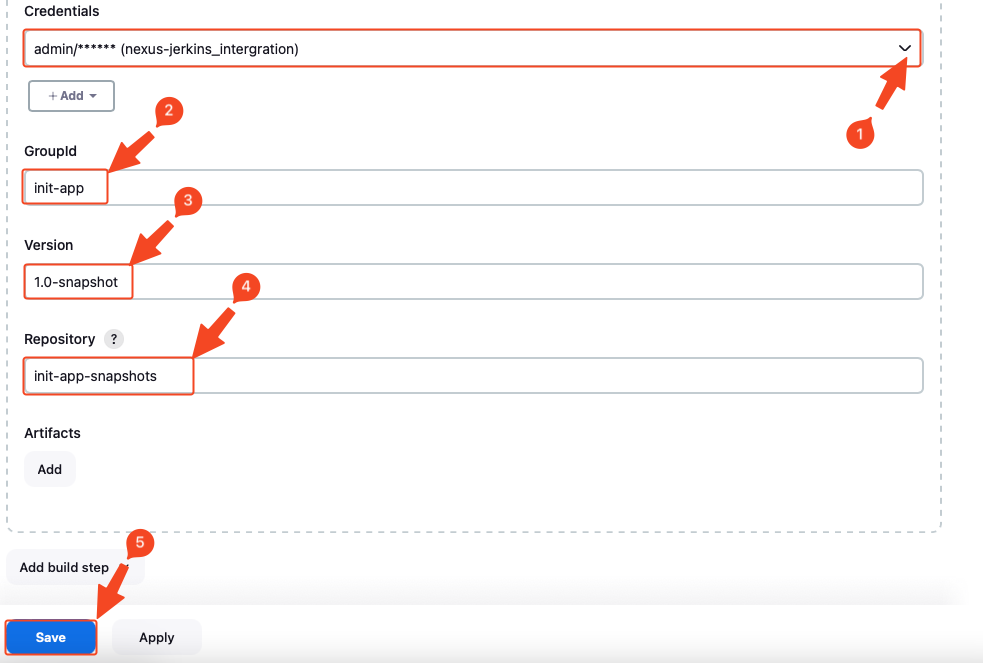
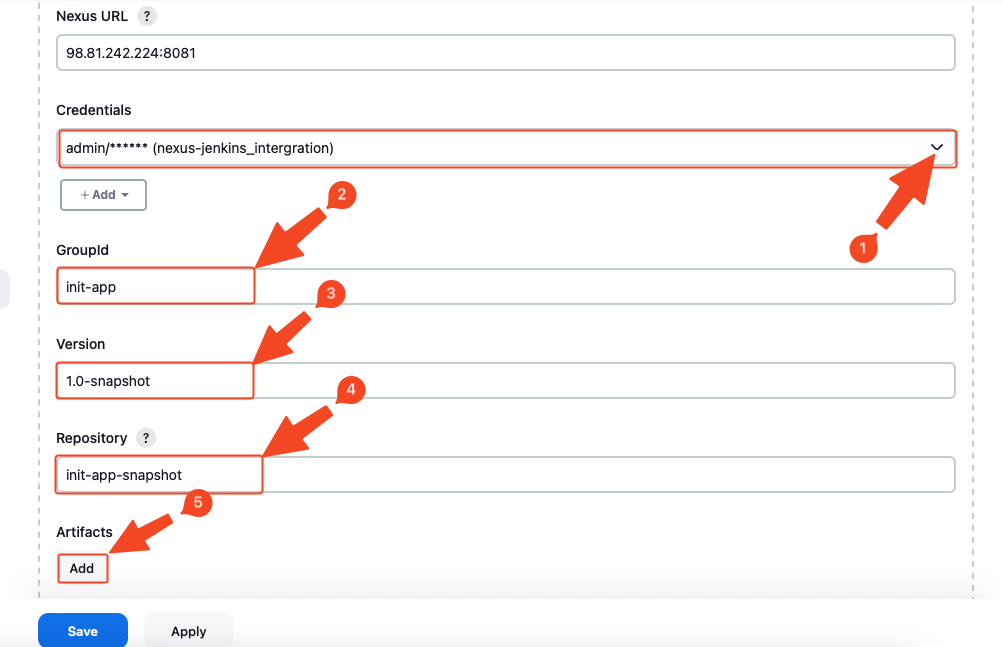
updated CI/CD files

Changed region(s): [[0.0, 0.0, 0.9766, 1.0], [0.9156, 0.4019, 0.9766, 0.4637], [0.9461, 0.711, 0.9766, 0.7728]]

diff --git a/CI:CD_Projects/CI:CD_with_G,J,M,S,N,&D.md b/CI:CD_Projects/CI:CD_with_G,J,M,S,N,&D.md
@@ -255,8 +255,10 @@ After making changes `save` and Commit the changes.
 **Set up Jenkins for your project by following these steps:**
 
 1. Access your project's configuration: `Project(init-app)` > `Configure` > `Build Steps`
-2. Add a new build step: Nexus Artifact Uploader
-3. Enter the Nexus details:
+2. Add a new build step: `Nexus Artifact Uploader`
+
+![nex-jen](https://github.com/yunika-giles/Devops_Projects/blob/main/CI%3ACD_Projects/Images/nex-jen7.png)
+1. Enter the Nexus details:
     - Version: NEXUS3
     - Protocol: HTTP
     - URL: your Nexus URL (without `http/https`, e.g., `<instanceIP>:8081`)
@@ -264,16 +266,109 @@ After making changes `save` and Commit the changes.
     - GroupId: your project name (e.g., `init-app`)
     - Version: your version number (e.g., `1.0-SNAPSHOT`)
     - Repository: select the repository created in Nexus (e.g., `init-app-snapshot`)
-4. Add artifacts:
+
+![nex-jen](https://github.com/yunika-giles/Devops_Projects/blob/main/CI%3ACD_Projects/Images/nex-jen8.png)
+![nex-jen](https://github.com/yunika-giles/Devops_Projects/blob/main/CI%3ACD_Projects/Images/nex-jen9.png)
+![nex-jen](https://github.com/yunika-giles/Devops_Projects/blob/main/CI%3ACD_Projects/Images/nex-jen10.png)
+
+1. Add artifacts:
     - ArtifactId: your ID (subfolder inside your GroupId, e.g., `init-app-v1.0.0`)
     - Type: `war`
     - Classifier: leave blank
     - File: enter the complete link to your `.war file` on your backend. 
     - Default link could be found in: `/var/lib/jenkins/`(e.g., /var/lib/jenkins/workspace/your-project-name/target/vin-app-v1.0.0.war)
-5. Save the changes and click `Build Now` to execute the build process.
-
+2. Save the changes and click `Build Now` to execute the build process.
+TODO: ![nex-jen]()
 To find your default Jenkins directory:
 
 1. Go to the Dashboard
 2. Click on `System`
 
+## Jenkins Docker Integrations 
+1. Go to the Dashboard and click on `+ New Item`.
+2. Enter your job name, select `Pipeline`, and click `OK`.
+3. In the `Configure` section, add a description under `General`.
+4. Set the `Discard old builds` option and choose the maximum number of builds to keep.
+5. Select `Pipeline` on the left panel, and under `Definition`, choose `Pipeline script`. 
+6. Edit 
+```python
+pipeline {
+    agent { 
+
+    environment {
+        GITHUB_REPO_URL = 'Paste your GitHub repo'
+        BRANCH_NAME = 'main'  // Replace with your branch name if it's not 'main'
+        GITHUB_CREDENTIALS_ID = 'Paste GitHub-token'  // Replace with your Jenkins GitHub credentials ID
+        DOCKERHUB_CREDENTIALS_ID = 'dockerhub'  // Replace with your Jenkins Docker Hub credentials ID
+        DOCKERHUB_REPO = 'Paste your Docker repo'  // Replace with your Docker Hub repository
+    }
+
+    stages {
+        stage('Agent Details') {
+            steps {
+                echo "Running on agent: ${env.NODE_NAME}"
+                sh 'uname -a'  // Print system information
+                sh 'whoami'    // Print the current user
+            }
+        }
+
+        stage('Clone Repository') {
+            steps {
+                git branch: "${env.BRANCH_NAME}", url: "${env.GITHUB_REPO_URL}", credentialsId: "${env.GITHUB_CREDENTIALS_ID}"
+            }
+        }
+
+        stage('Build') {
+            steps {
+                sh 'mvn clean package'  // Simple Maven build
+            }
+        }
+
+        stage('Docker Build') {
+            steps {
+                script {
+                    sh 'docker --version'  // Verify Docker installation
+                    sh "docker build -t ${env.DOCKERHUB_REPO}:latest ."  // Build Docker image
+                }
+            }
+        }
+
+        stage('Docker Push') {
+            steps {
+                script {
+                    withCredentials([usernamePassword(credentialsId: "${env.DOCKERHUB_CREDENTIALS_ID}", usernameVariable: 'DOCKER_USERNAME', passwordVariable: 'DOCKER_PASSWORD')]) {
+                        sh 'docker login -u $DOCKER_USERNAME -p $DOCKER_PASSWORD'
+                        sh "docker push ${env.DOCKERHUB_REPO}:latest"
+                        sh 'docker logout'
+                    }
+                }
+            }
+        }
+
+        stage('Run Docker Container') {
+            steps {
+                script {
+                    sh "docker run --name init-con --rm -d -p 8090:8080 ${env.DOCKERHUB_REPO}:latest"  // Run Docker container in detached mode
+                }
+            }
+        }
+    }
+
+    post {
+        always {
+            echo 'Cleaning up Docker containers and images...'
+            sh 'docker rm $(docker ps -a -q) || true'
+            sh 'docker rmi $(docker images -q) || true'
+        }
+        success {
+            echo 'Pipeline completed successfully!'
+        }
+        failure {
+            echo 'Pipeline failed!'
+        }
+    }
+    }
+}
+```
+7. Paste your script in the provided area, click `Save`, and then `Build Now`.
+   
